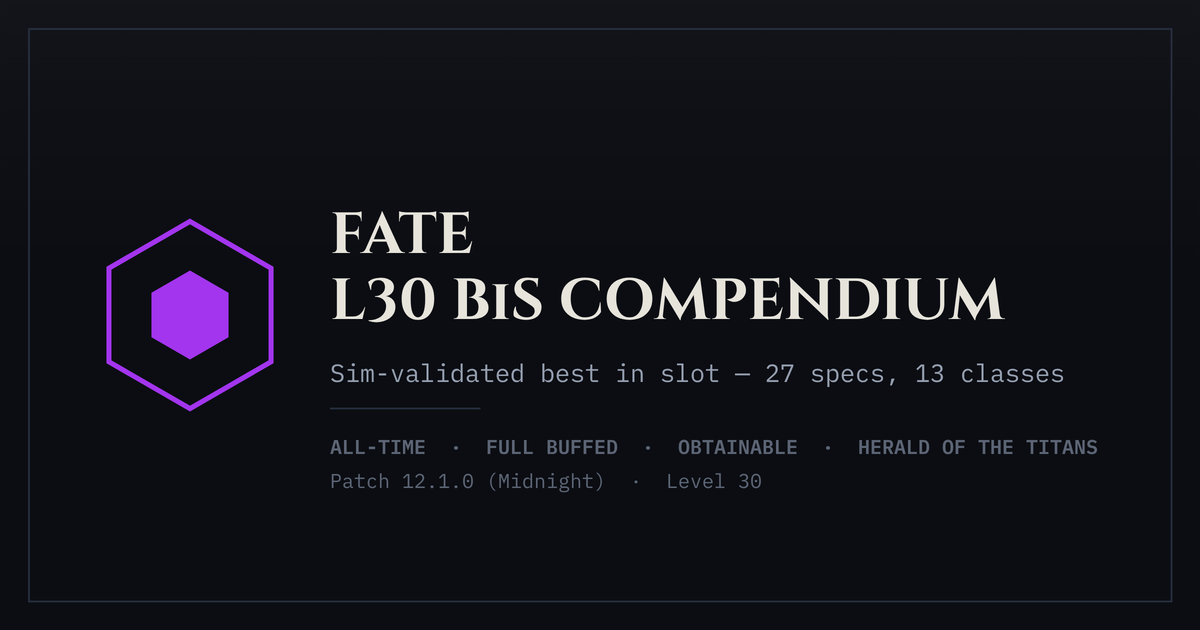
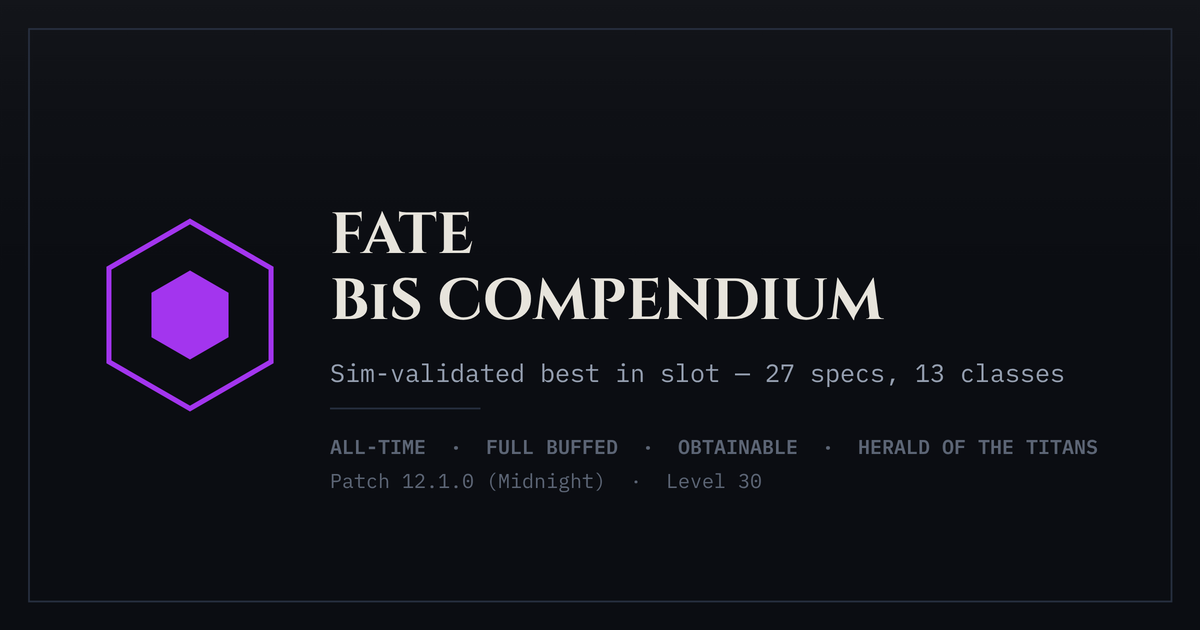
Drop "L30" from the name: page title, share image, README
The header has read "FATE · BiS COMPENDIUM" for a while; the title tag,
og:title, the image alt text and the share image still said "L30 BiS
Compendium". All four now read "Fate BiS Compendium", and the README
title follows. The two Shaman notes that opened on "L30 stat priority"
open on "Stat priority".

assets/og.png is redrawn from its source with the one title line
changed; a control render with the old line matched the committed image
pixel for pixel, so nothing else on it moved. CONFIG.updated goes to
2026-11-20 with the changelog entry.

Not applied: the "level 30" statements that describe the bracket (meta
descriptions, the sim note, CONFIG.bracket, the Herald rule, the last
line of the share image), the changelog's history, and the "L30 FIX"
comments in the archived profiles under list/old.

Claude-Session: https://claude.ai/code/session_01VAc8EUbFKTAjJyL7zCB5h1

Changed region(s): [[0.2775, 0.4222, 0.8325, 0.5127]]

diff --git a/index.html b/index.html
@@ -3,17 +3,17 @@
 <head>
 <meta charset="utf-8">
 <meta name="viewport" content="width=device-width, initial-scale=1">
-<title>Fate — L30 BiS Compendium</title>
+<title>Fate — BiS Compendium</title>
 <meta name="description" content="Sim-validated best-in-slot gear lists for 27 specs across all 13 classes at level 30 (patch 12.1.0, Midnight). All-Time, Obtainable and Herald of the Titans, every list fully raid-buffed, with talents, consumables and stat panels.">
 <meta name="theme-color" content="#0c0f15">
 <meta property="og:type" content="website">
 <meta property="og:site_name" content="Fate BiS Compendium">
-<meta property="og:title" content="Fate — L30 BiS Compendium">
+<meta property="og:title" content="Fate — BiS Compendium">
 <meta property="og:description" content="Sim-validated BiS for 27 specs across all 13 classes at level 30. All-Time, Obtainable and Herald of the Titans, every list fully raid-buffed.">
 <meta property="og:image" content="https://thefatesaber.github.io/BIS-List/assets/og.png">
 <meta property="og:image:width" content="1200">
 <meta property="og:image:height" content="630">
-<meta property="og:image:alt" content="Fate — L30 BiS Compendium">
+<meta property="og:image:alt" content="Fate — BiS Compendium">
 <meta name="twitter:card" content="summary_large_image">
 <meta name="twitter:image" content="https://thefatesaber.github.io/BIS-List/assets/og.png">
 <!-- PNG first for Safari, which does not render SVG favicons; .ico for old IE/Edge. -->
@@ -783,7 +783,7 @@ const CONFIG = {
   patch: "12.1.0 (Midnight)",
   bracket: "Level 30",
   // Bump on every data change — a sim-derived list with no date can't be trusted.
-  updated: "2026-11-16",
+  updated: "2026-11-20",
   // Herald of the Titans achievement requirements.
   heraldRule: "Defeat Algalon the Observer at level 30 with no one in the raid wearing items above item level 41. Other than necks, rings and trinkets, every piece must come from Classic, TBC or WotLK.",
   // Shown under the header until the changelog feed loads, and in its place when the
@@ -1955,7 +1955,7 @@ const CLASSES = [
   buffWorth:{"alltime": [{"buff": "Total", "dps": 1225, "pct": 22.7, "status": "measured", "note": "every raid buff and consumable off together"}, {"buff": "Consumables", "dps": 611, "pct": 11.3, "status": "measured"}, {"buff": "Potion", "dps": 51, "pct": 0.9, "status": "measured", "note": "in Consumables"}, {"buff": "Flask", "dps": 212, "pct": 3.9, "status": "measured", "note": "in Consumables"}, {"buff": "Food", "dps": 77, "pct": 1.4, "status": "measured", "note": "in Consumables"}, {"buff": "Weapon Oil", "dps": 257, "pct": 4.8, "status": "measured", "note": "in Consumables"}, {"buff": "Hunter's Mark", "dps": 157, "pct": 2.9, "status": "computed"}, {"buff": "Skyfury", "dps": 106, "pct": 2, "status": "measured"}, {"buff": "Mark of the Wild", "dps": 141, "pct": 2.6, "status": "measured"}, {"buff": "Arcane Intellect", "dps": 139, "pct": 2.6, "status": "measured"}, {"buff": "Bloodlust (Drums)", "dps": 182, "pct": 3.4, "status": "measured"}, {"buff": "Power Infusion", "dps": 209, "pct": 3.9, "status": "measured", "note": "a second, external one beside its own; not in the number of record"}, {"buff": "Armor: Annihilator + Phantom Blade", "dps": 1, "pct": 0, "status": "measured", "note": "a teammate's debuff on the target, not in the number of record"}, {"buff": "Armor: Annihilator", "dps": 0, "pct": 0, "status": "measured", "note": "a teammate's debuff on the target, not in the number of record"}, {"buff": "Armor: Phantom Blade", "dps": 0, "pct": 0, "status": "measured", "note": "a teammate's debuff on the target, not in the number of record"}], "obtainable": [{"buff": "Total", "dps": 1177, "pct": 22.8, "status": "measured", "note": "every raid buff and consumable off together"}, {"buff": "Consumables", "dps": 602, "pct": 11.6, "status": "measured"}, {"buff": "Potion", "dps": 49, "pct": 0.9, "status": "measured", "note": "in Consumables"}, {"buff": "Flask", "dps": 217, "pct": 4.2, "status": "measured", "note": "in Consumables"}, {"buff": "Food", "dps": 86, "pct": 1.7, "status": "measured", "note": "in Consumables"}, {"buff": "Weapon Oil", "dps": 262, "pct": 5.1, "status": "measured", "note": "in Consumables"}, {"buff": "Hunter's Mark", "dps": 151, "pct": 2.9, "status": "computed"}, {"buff": "Skyfury", "dps": 104, "pct": 2, "status": "measured"}, {"buff": "Mark of the Wild", "dps": 137, "pct": 2.6, "status": "measured"}, {"buff": "Arcane Intellect", "dps": 135, "pct": 2.6, "status": "measured"}, {"buff": "Bloodlust (Drums)", "dps": 163, "pct": 3.2, "status": "measured"}, {"buff": "Power Infusion", "dps": 198, "pct": 3.8, "status": "measured", "note": "a second, external one beside its own; not in the number of record"}, {"buff": "Armor: Annihilator + Phantom Blade", "dps": 0, "pct": 0, "status": "measured", "note": "a teammate's debuff on the target, not in the number of record"}, {"buff": "Armor: Annihilator", "dps": 1, "pct": 0, "status": "measured", "note": "a teammate's debuff on the target, not in the number of record"}, {"buff": "Armor: Phantom Blade", "dps": -1, "pct": 0, "status": "measured", "note": "a teammate's debuff on the target, not in the number of record"}]},
   consumables:{"alltime": {"potion": {"item": "Volcanic Potion", "wowhead": 58091}, "flask": {"item": "Flask of Distilled Wisdom", "wowhead": 13511}, "food": {"item": "Severed Sagefish Head", "wowhead": 62671}, "oil": {"item": "Superior Wizard Oil", "wowhead": 22522, "hands": "MH"}}, "obtainable": {"potion": {"item": "Volcanic Potion", "wowhead": 58091}, "flask": {"item": "Flask of Distilled Wisdom", "wowhead": 13511}, "food": {"item": "Severed Sagefish Head", "wowhead": 62671}, "oil": {"item": "Superior Wizard Oil", "wowhead": 22522, "hands": "MH"}}, "herald": {"potion": {"item": "Volcanic Potion", "wowhead": 58091}, "flask": {"item": "Flask of Distilled Wisdom", "wowhead": 13511}, "food": {"item": "Severed Sagefish Head", "wowhead": 62671}, "oil": {"item": "Superior Wizard Oil", "wowhead": 22522, "hands": "MH"}}},
   stats:{"alltime": {"main": 299, "stam": 1128, "crit": [20.25,76], "mastery": [15.53,105], "haste": [34.08,144], "vers": [4.03,6]}, "obtainable": {"main": 295, "stam": 1124, "crit": [20.25,76], "mastery": [14.33,93], "haste": [33.24,140], "vers": [4.03,6]}, "herald": {"main": 249, "stam": 1122, "crit": [14.83,49], "mastery": [11.32,73], "haste": [26.33,108], "vers": [4.78,28]}},
-  notes:["L30 stat priority: Int ≫ Haste ≈ Mastery > Crit > Vers."],
+  notes:["Stat priority: Int ≫ Haste ≈ Mastery > Crit > Vers."],
   credits:{"herald": "Emmaløve"},
   lists:{
     alltime:[
@@ -2020,7 +2020,7 @@ const CLASSES = [
   buffWorth:{"alltime": [{"buff": "Total", "dps": 850, "pct": 20.6, "status": "measured", "note": "every raid buff and consumable off together"}, {"buff": "Consumables", "dps": 443, "pct": 10.7, "status": "measured"}, {"buff": "Potion", "dps": 26, "pct": 0.6, "status": "measured", "note": "in Consumables"}, {"buff": "Flask", "dps": 153, "pct": 3.7, "status": "measured", "note": "in Consumables"}, {"buff": "Food", "dps": 55, "pct": 1.3, "status": "measured", "note": "in Consumables"}, {"buff": "Weapon Oil", "dps": 188, "pct": 4.6, "status": "measured", "note": "in Consumables"}, {"buff": "Hunter's Mark", "dps": 120, "pct": 2.9, "status": "computed"}, {"buff": "Skyfury", "dps": 54, "pct": 1.3, "status": "measured"}, {"buff": "Mark of the Wild", "dps": 104, "pct": 2.5, "status": "measured"}, {"buff": "Arcane Intellect", "dps": 109, "pct": 2.6, "status": "measured"}, {"buff": "Bloodlust (Drums)", "dps": 88, "pct": 2.1, "status": "measured"}, {"buff": "Flame Cap", "dps": 9, "pct": 0.2, "status": "measured"}, {"buff": "Power Infusion", "dps": 152, "pct": 3.7, "status": "measured", "note": "external; not in the number of record"}, {"buff": "Armor: Annihilator + Phantom Blade", "dps": 1, "pct": 0, "status": "measured", "note": "a teammate's debuff on the target, not in the number of record"}, {"buff": "Armor: Annihilator", "dps": 1, "pct": 0, "status": "measured", "note": "a teammate's debuff on the target, not in the number of record"}, {"buff": "Armor: Phantom Blade", "dps": 2, "pct": 0, "status": "measured", "note": "a teammate's debuff on the target, not in the number of record"}], "obtainable": [{"buff": "Total", "dps": 840, "pct": 21, "status": "measured", "note": "every raid buff and consumable off together"}, {"buff": "Consumables", "dps": 436, "pct": 10.9, "status": "measured"}, {"buff": "Potion", "dps": 25, "pct": 0.6, "status": "measured", "note": "in Consumables"}, {"buff": "Flask", "dps": 161, "pct": 4, "status": "measured", "note": "in Consumables"}, {"buff": "Food", "dps": 63, "pct": 1.6, "status": "measured", "note": "in Consumables"}, {"buff": "Weapon Oil", "dps": 193, "pct": 4.8, "status": "measured", "note": "in Consumables"}, {"buff": "Hunter's Mark", "dps": 116, "pct": 2.9, "status": "computed"}, {"buff": "Skyfury", "dps": 52, "pct": 1.3, "status": "measured"}, {"buff": "Mark of the Wild", "dps": 102, "pct": 2.6, "status": "measured"}, {"buff": "Arcane Intellect", "dps": 108, "pct": 2.7, "status": "measured"}, {"buff": "Bloodlust (Drums)", "dps": 86, "pct": 2.2, "status": "measured"}, {"buff": "Flame Cap", "dps": 8, "pct": 0.2, "status": "measured"}, {"buff": "Power Infusion", "dps": 146, "pct": 3.7, "status": "measured", "note": "external; not in the number of record"}, {"buff": "Armor: Annihilator + Phantom Blade", "dps": 1, "pct": 0, "status": "measured", "note": "a teammate's debuff on the target, not in the number of record"}, {"buff": "Armor: Annihilator", "dps": 1, "pct": 0, "status": "measured", "note": "a teammate's debuff on the target, not in the number of record"}, {"buff": "Armor: Phantom Blade", "dps": 1, "pct": 0, "status": "measured", "note": "a teammate's debuff on the target, not in the number of record"}]},
   consumables:{"alltime": {"potion": {"item": "Volcanic Potion", "wowhead": 58091}, "flask": {"item": "Flask of Distilled Wisdom", "wowhead": 13511}, "food": {"item": "Severed Sagefish Head", "wowhead": 62671}, "oil": {"item": "Superior Wizard Oil", "wowhead": 22522, "hands": "MH"}}, "obtainable": {"potion": {"item": "Volcanic Potion", "wowhead": 58091}, "flask": {"item": "Flask of Distilled Wisdom", "wowhead": 13511}, "food": {"item": "Severed Sagefish Head", "wowhead": 62671}, "oil": {"item": "Superior Wizard Oil", "wowhead": 22522, "hands": "MH"}}, "herald": {"potion": {"item": "Volcanic Potion", "wowhead": 58091}, "flask": {"item": "Flask of Distilled Wisdom", "wowhead": 13511}, "food": {"item": "Severed Sagefish Head", "wowhead": 62671}, "oil": {"item": "Superior Wizard Oil", "wowhead": 22522, "hands": "MH"}}},
   stats:{"alltime": {"main": 318, "stam": 1163, "crit": [31.67,123], "mastery": [25,0], "haste": [27.26,130], "vers": [13.08,59]}, "obtainable": {"main": 311, "stam": 1163, "crit": [30.67,118], "mastery": [25,0], "haste": [27.68,132], "vers": [11.54,50]}, "herald": {"main": 261, "stam": 1164, "crit": [26.66,98], "mastery": [25.01,10], "haste": [17.83,85], "vers": [4.44,26]}},
-  notes:["L30 stat priority: Int ≫ Crit ≈ Vers > Haste > Mastery (inverted from max level)."],
+  notes:["Stat priority: Int ≫ Crit ≈ Vers > Haste > Mastery (inverted from max level)."],
   credits:{},
   lists:{
     alltime:[

diff --git a/README.md b/README.md
@@ -1,4 +1,4 @@
-# Fate — L30 BiS Compendium
+# Fate — BiS Compendium
 
 Sim-validated best-in-slot lists for World of Warcraft at level 30: 27 specs
 across all 13 classes, three lists each, every list fully raid-buffed.
